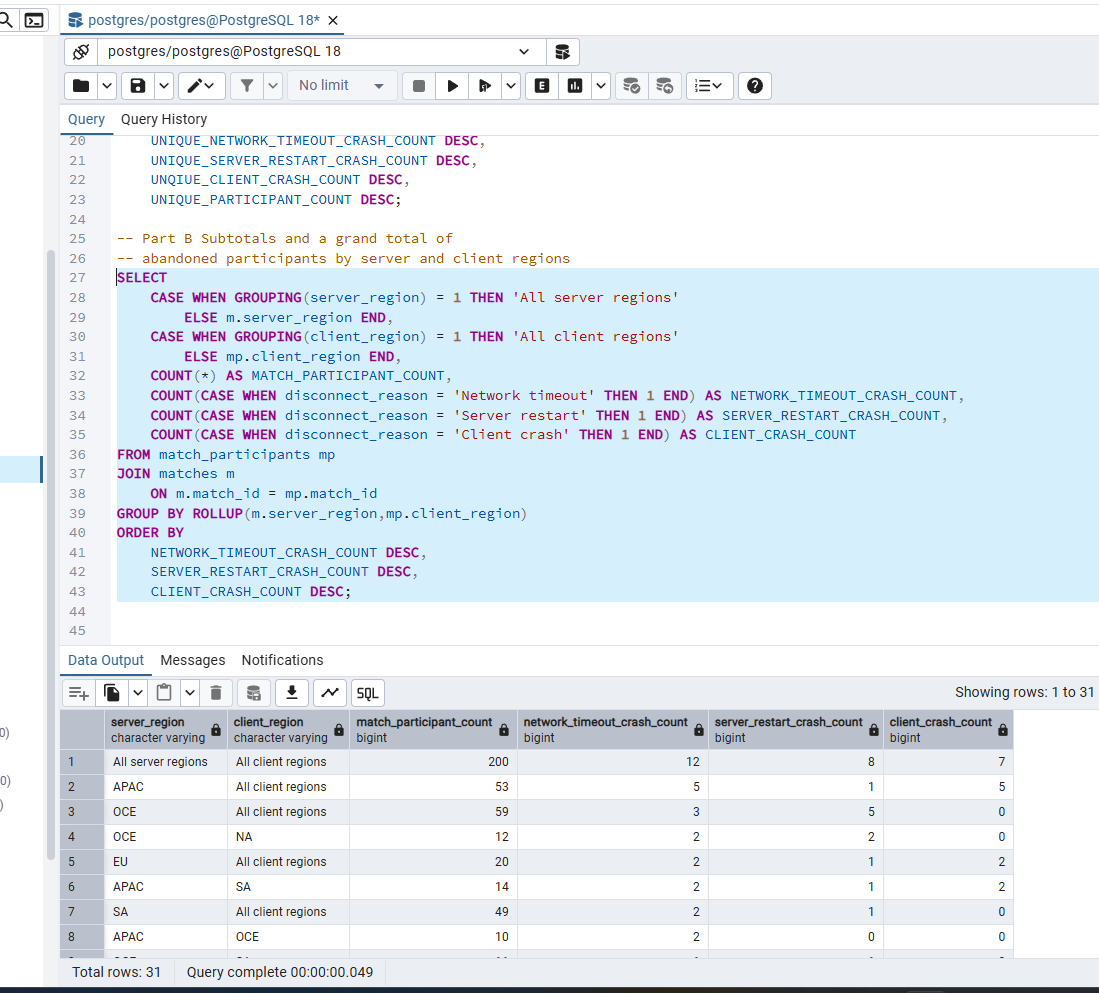
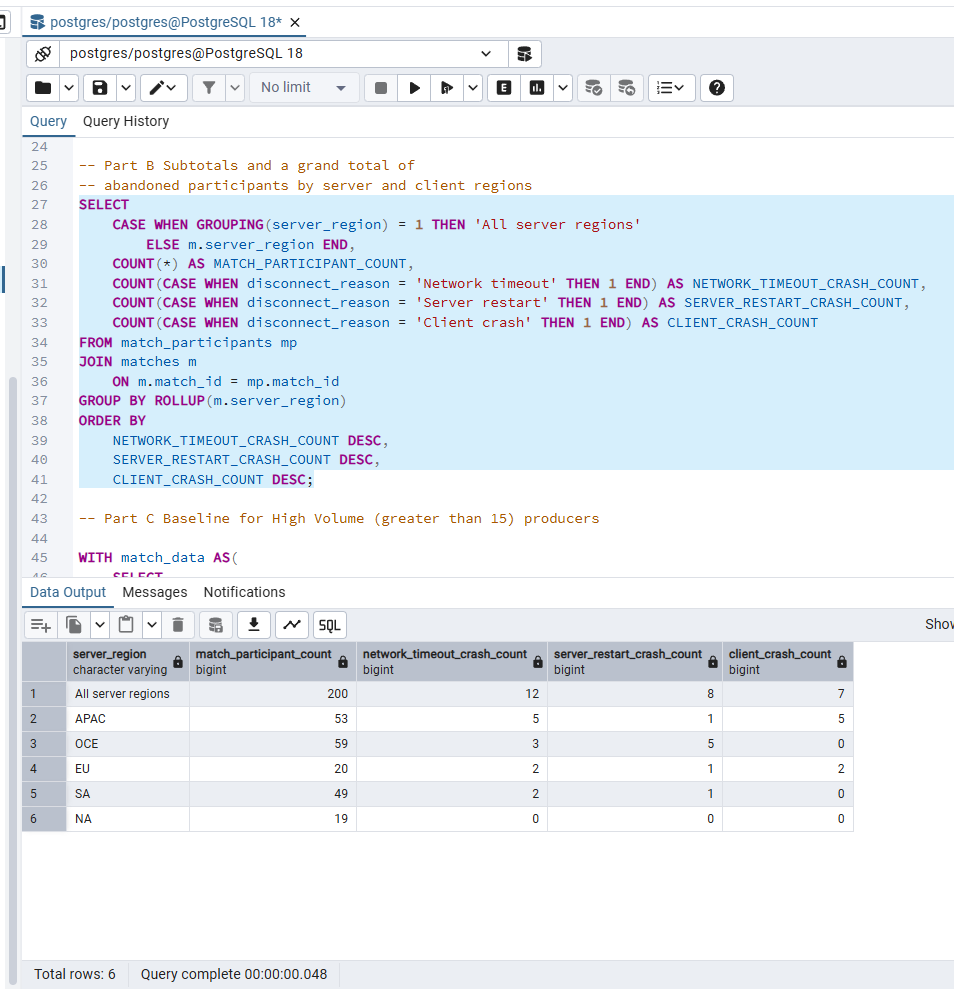
Grammar fixes, reword and small fixes

diff --git a/analysis/unit4.md b/analysis/unit4.md
@@ -2,23 +2,42 @@
 
 ### Name the person who would act on the per-producer breakdown
 
-The person who would act on the per-match breakdown is whomever is responsible for the APAC and OCE servers, as the last query we ran in task 4.1 identified these servers with the highest rate of abandoned players. Server logs
-can be review to determine if there is a capacity, or perhaps application issue.
+The person who would act on the per-match breakdown is whoever is responsible for the APAC and OCE servers, as the last query in Task 4.1 showed these servers had the most abandoned players. Their server logs can be reviewed to determine whether there is a capacity or application issue.
+
+### Choosing the volume threshold
+
+For query 4.1.3 I chose a minimum of 15 participants per match. Match sizes range from 6 to 21 participants, with a median of 16, so 15 sits just below the median. It keeps the eight larger matches (145 of the 200 records) and drops the smaller ones, where one or two dropped players can swing the failure rate by 10 percentage points or more.
 
 ### What the aggregates hide
 
-- **The zeros drag the average down.** Every abandoned event is recorded with a score of 0. Match 11 averages 11.94 points, but its players who actually stayed in the match averaged 17.37. It doesn't show that players perform worse.
-- **A player can have multiple participation records in a match** Match 6's 21 match_participants come from only 14 different players. Across the platform, 200 events come from just 30 players. Error rates for 1 particular player should not weight down the entire stat
-- **Inconsistency between matches and match_participants** Matches 14 and 15 exist in `matches` but have no `match_participants`, so they never appear in a `GROUP BY` on the event table. The breakdown can't show a match with miss data. Additionally the matches that are represented in `match_participants` dont have a `COUNT` that correlate the `matches.player_count`. For example matchid 6 has count of 21 (4 of which abandoned) and matches shows `player_count` of 4
+- **The zeros drag the average down.** Every abandoned event is recorded with a score of 0. Match 11 averages 11.94 points, but its players who actually stayed in the match averaged 17.37. The low average does not mean its players performed worse.
+- **A player can have multiple participation records in a match.** Match 6's 21 participation records come from only 14 different players. Across the platform, 200 events come from just 30 players. Repeated failures for one player should not weigh down the entire statistic.
+- **Inconsistency between matches and match_participants.** Matches 14 and 15 exist in `matches` but have no `match_participants`, so they never appear in a `GROUP BY` on the event table. The breakdown can't show a match with missing data. Additionally, the record counts in `match_participants` don't match `matches.player_count`. For example, match 6 has 21 participation records (4 of them abandoned), but `matches` shows a `player_count` of 4.
+
+### What I would need to see next
+
+- **A match-level outcome.** The data only records when an individual player drops out. To report a true match failure rate, matches need a status showing whether the match completed or failed.
+- **The score distribution without the zeros.** The median and spread of scores for players who finished, so that abandoned records don't distort the picture of player performance.
+- **Failures per unique player.** Counting each player once per match would show whether a few players with repeated drops are inflating a match's failure rate.
+- **Server logs for APAC and OCE.** Timestamps of restarts and timeouts would show whether the failures cluster around capacity or deployment events.
 
 
 # Task 4.2: Build the breakdown leadership asked for
 
 ### Part A: Answers what questions
-- Each row represents a unique match and the columns answer the question of how many abandoned participants experienced a failure event (network timeout,server restart,client crash) as well as if any of those counts happened mulitple times in the match for any participants.
+- Each row represents a unique match, and the columns answer two questions side by side: how many participants did the match have, and how many of them experienced a failure? The failures are also broken down by type (network timeout, server restart, client crash). The unique counts also show whether the same player experienced a failure multiple times in one match.
 
 ### Part B: Identify who needs subtotals
-- The reader who needs the subtotals would be whomever is responsible for the management of all regional servers. The subtotals provide insight into the performance of the matches on a server level. The grand totals help frame the subtotals as percentages of what may above or below average failure rate. Decision on whether to investigate high failure regional servers depend on the comparison against the totals.
+- The reader who needs the subtotals is whoever manages all of the regional servers. The subtotals show how matches perform at the server-region level. The grand total frames each subtotal against the platform-wide figure, showing whether a region accounts for more than its share of the failures. The decision on whether to investigate a high-failure region depends on that comparison with the grand total.
+- **Reading the output:** each row with a region name in `server_region` (APAC, EU, NA, OCE, SA) is a regional subtotal. The row labelled **All server regions** is the platform grand total: 200 participants, with 12 network timeouts, 8 server restarts and 7 client crashes.
 
 ### Part C: The Pipeline
-- The pipeline query in part c helps to frame the performance of matches against the pipeline/baseline. It can help answer questions like **Is the failure rate of a particular match far above average?** or **Is the average score in a particular match consistent with averages across all matches**. The answers to these question help identify potential issue and can be used in the future as a basis to show trends in platform performance.
+- The pipeline answers the question: **What is the typical failure rate and average score for high-volume matches (15 or more participants)?** That baseline lets each match be compared against it, answering questions like **Is the failure rate of a particular match far above average?** or **Is the average score in a particular match consistent with the average across all matches?** The answers help identify potential issues and can be used in the future as a basis for tracking trends in platform performance.
+
+# Task 4.3: Reflection
+
+### Conditional aggregation vs. separate filtered queries
+
+Conditional aggregation answers several questions in one pass. In Part A, a single scan of `match_participants` returned each match's total participant count alongside its network timeout, server restart and client crash counts. Each row is read once, and the `CASE` inside each `COUNT` decides which columns that row adds to. To get a similar result with filtered queries, I would need one query for the totals and another for each failure condition, then join the results by `match_id`. In this example that means four scans instead of one, plus the overhead of the join. A match with no failures of a given type simply disappears from that filtered query, so it has to be added back with a `LEFT JOIN` and `COALESCE` or its count shows up as missing instead of 0.
+
+With only 200 rows, the performance difference is negligible. From professional experience, even at a million rows (small for a production database), a well-indexed database would likely not show a noticeable difference for a report run a few times a quarter. The performance argument becomes stronger when end users run the query often, because every extra scan multiplies the cost (1 scan vs 4 in this case). The bigger benefits are maintainability and consistency: a change is made in one place rather than repeated across several queries, and every column is calculated from the same set of rows.
